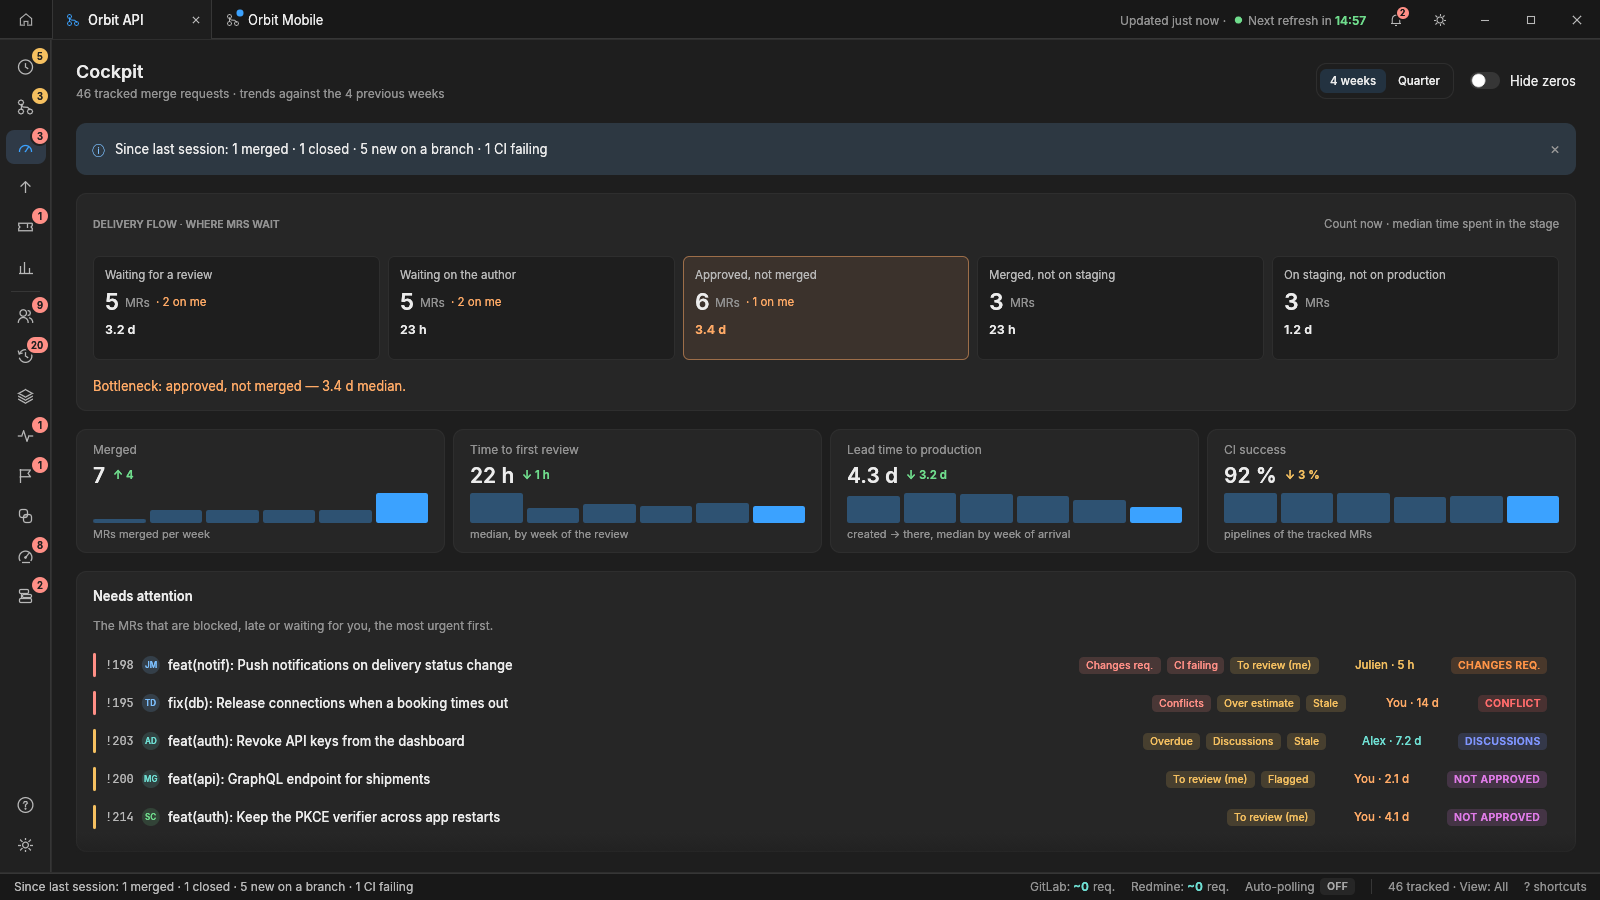
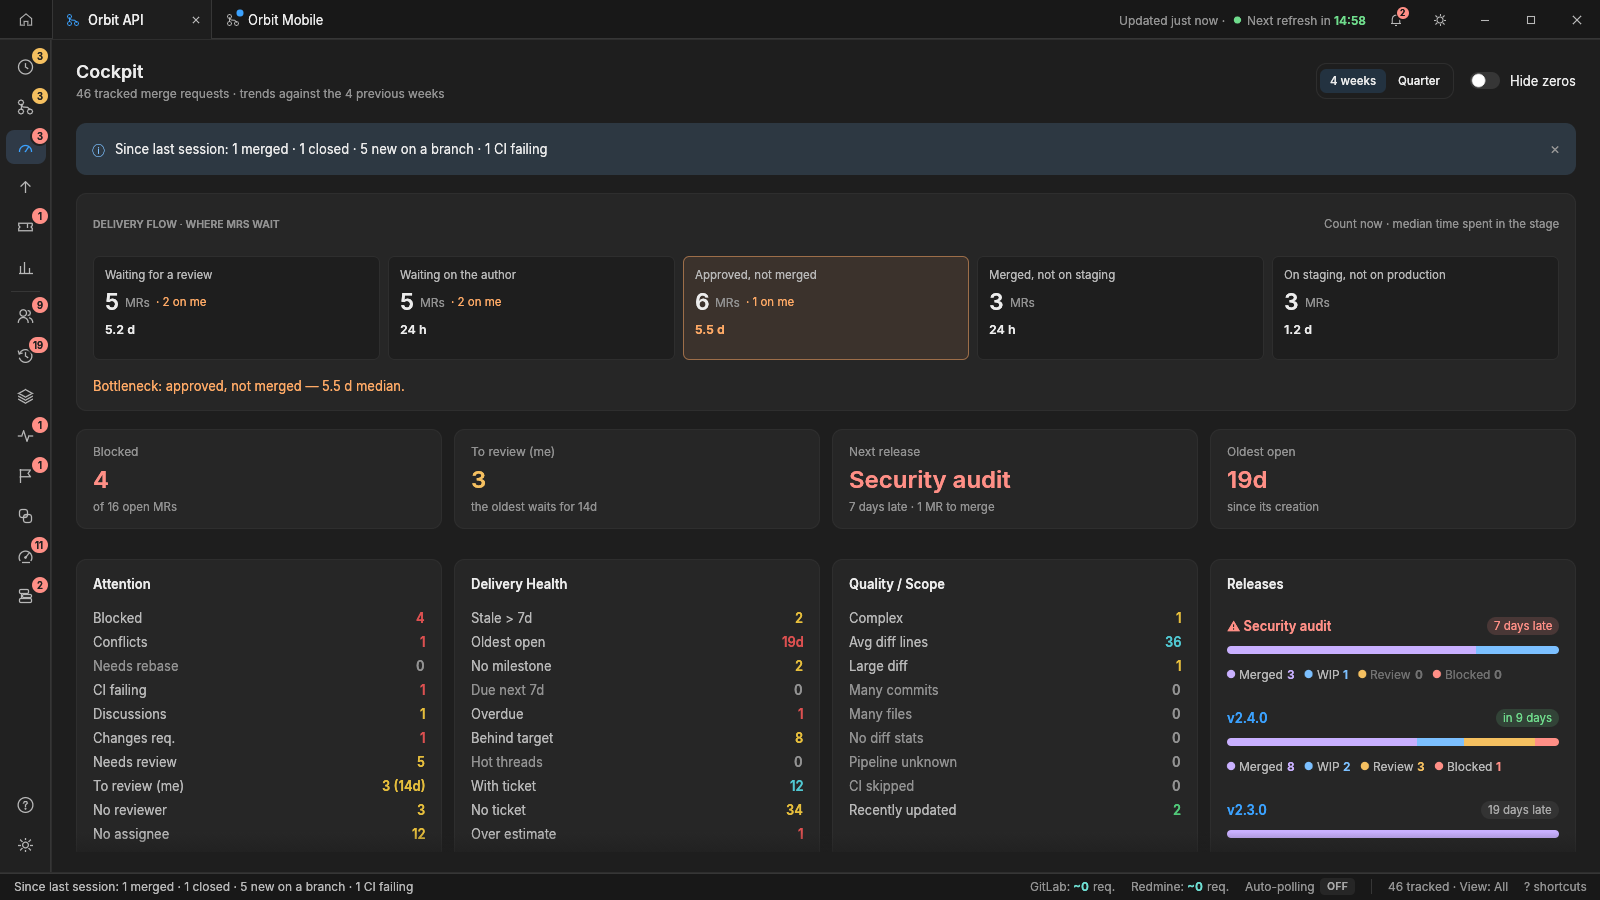
feat(gui): cockpit counters and cards first, lists last; distinct colors by label

diff --git a/gitlab-tracker/src/gui/labels.rs b/gitlab-tracker/src/gui/labels.rs
@@ -310,7 +310,7 @@ pub fn card(ui: &mut Ui, theme: &Theme, app: &App) -> Option<Click> {
                     let parts: Vec<(f32, egui::Color32)> = Bucket::ALL
                         .iter()
                         .zip(row.buckets)
-                        .map(|(b, n)| (n as f32, super::table::bucket_tone(*b, &theme.tones).fg))
+                        .map(|(b, n)| (n as f32, bucket_color(*b, theme)))
                         .collect();
                     board::paint_stacked_bar(ui, theme, bar, &parts, 1.0);
                 }
@@ -353,7 +353,23 @@ pub fn card(ui: &mut Ui, theme: &Theme, app: &App) -> Option<Click> {
     click
 }
 
-/// The buckets the rows use, as the table's chips: a dot and the name.
+/// A bucket's color on this card: hues far apart (red, yellow, purple, green,
+/// blue), so the segments of a bar read at a glance. The table's chips keep
+/// their softer tones, where the name is written.
+fn bucket_color(bucket: Bucket, theme: &Theme) -> egui::Color32 {
+    let t = &theme.tones;
+    match bucket {
+        Bucket::OnMe => t.red.fg,
+        Bucket::OnAuthor => t.amber.fg,
+        Bucket::OnReviewers => t.purple.fg,
+        Bucket::ToMerge => t.green.fg,
+        Bucket::ToDeploy => t.blue.fg,
+        Bucket::Done => t.teal.fg,
+        Bucket::Unknown => t.gray.fg,
+    }
+}
+
+/// The buckets the rows use: a dot and the name.
 fn legend(ui: &mut Ui, theme: &Theme, rows: &[LabelRow]) {
     ui.horizontal_wrapped(|ui| {
         ui.spacing_mut().item_spacing.x = 14.0;
@@ -361,7 +377,7 @@ fn legend(ui: &mut Ui, theme: &Theme, rows: &[LabelRow]) {
             if rows.iter().all(|r| r.buckets[i] == 0) {
                 continue;
             }
-            let color = super::table::bucket_tone(*bucket, &theme.tones).fg;
+            let color = bucket_color(*bucket, theme);
             super::widgets::dot_label(ui, theme, color, bucket.label());
         }
     });

diff --git a/gitlab-tracker/src/gui/cockpit.rs b/gitlab-tracker/src/gui/cockpit.rs
@@ -103,22 +103,23 @@ pub fn page(g: &mut GuiApp, ui: &mut Ui) {
                 pick = Some(Pick::Focus(key, name));
             }
             ui.add_space(12.0);
+            // The counters, then the flow and attention cards, then the weekly
+            // trends; the lists last: what needs attention, the labels.
+            let from_tiles = tiles(ui, &theme, &headline, &counts);
+            ui.add_space(12.0);
+            let (from_cards, _) = grid(ui, &theme, &cards, &headline.releases, &counts);
+            ui.add_space(12.0);
             super::flow::trend_tiles(
                 ui,
                 &theme,
                 &super::flow::trends(&g.app, chrono::Utc::now(), g.trend_period),
             );
             ui.add_space(12.0);
-            // As in the mockup: what needs attention, right after the trends.
             let from_list = needs_attention(ui, &theme, &urgent);
             ui.add_space(12.0);
             if let Some(click) = super::labels::card(ui, &theme, &g.app) {
                 by_label = Some(click);
             }
-            ui.add_space(12.0);
-            let from_tiles = tiles(ui, &theme, &headline, &counts);
-            ui.add_space(12.0);
-            let (from_cards, _) = grid(ui, &theme, &cards, &headline.releases, &counts);
             pick = pick.take().or(from_tiles).or(from_cards).or(from_list);
         });
 

diff --git a/docs/desktop-window.md b/docs/desktop-window.md
@@ -126,14 +126,16 @@ and the terminal UI keeps it.
 ## Cockpit
 
 Where MRs wait (review, author, approved but not merged, between branches) with
-the bottleneck, four weekly trends (merges, time to first review, lead time to
-production, CI success), and the MRs that need attention, most urgent first.
+the bottleneck; the headline counters (blocked, to review, next release, oldest);
+the attention, delivery, quality and release cards; four weekly trends (merges,
+time to first review, lead time to production, CI success); then the MRs that
+need attention, most urgent first.
 **Open MRs by label** gives, for each label, how many open MRs carry it, where
 they wait (the next step, as the table's chips), their median age and the oldest;
 sorted by count or by age. A click on a label lists its MRs in the table, a click
 on the oldest opens it.
 
-![Cockpit: where MRs wait, trends, what needs attention](assets/desktop/cockpit.png)
+![Cockpit: where MRs wait, the counters, the attention and delivery cards](assets/desktop/cockpit.png)
 
 ## Promote
 
